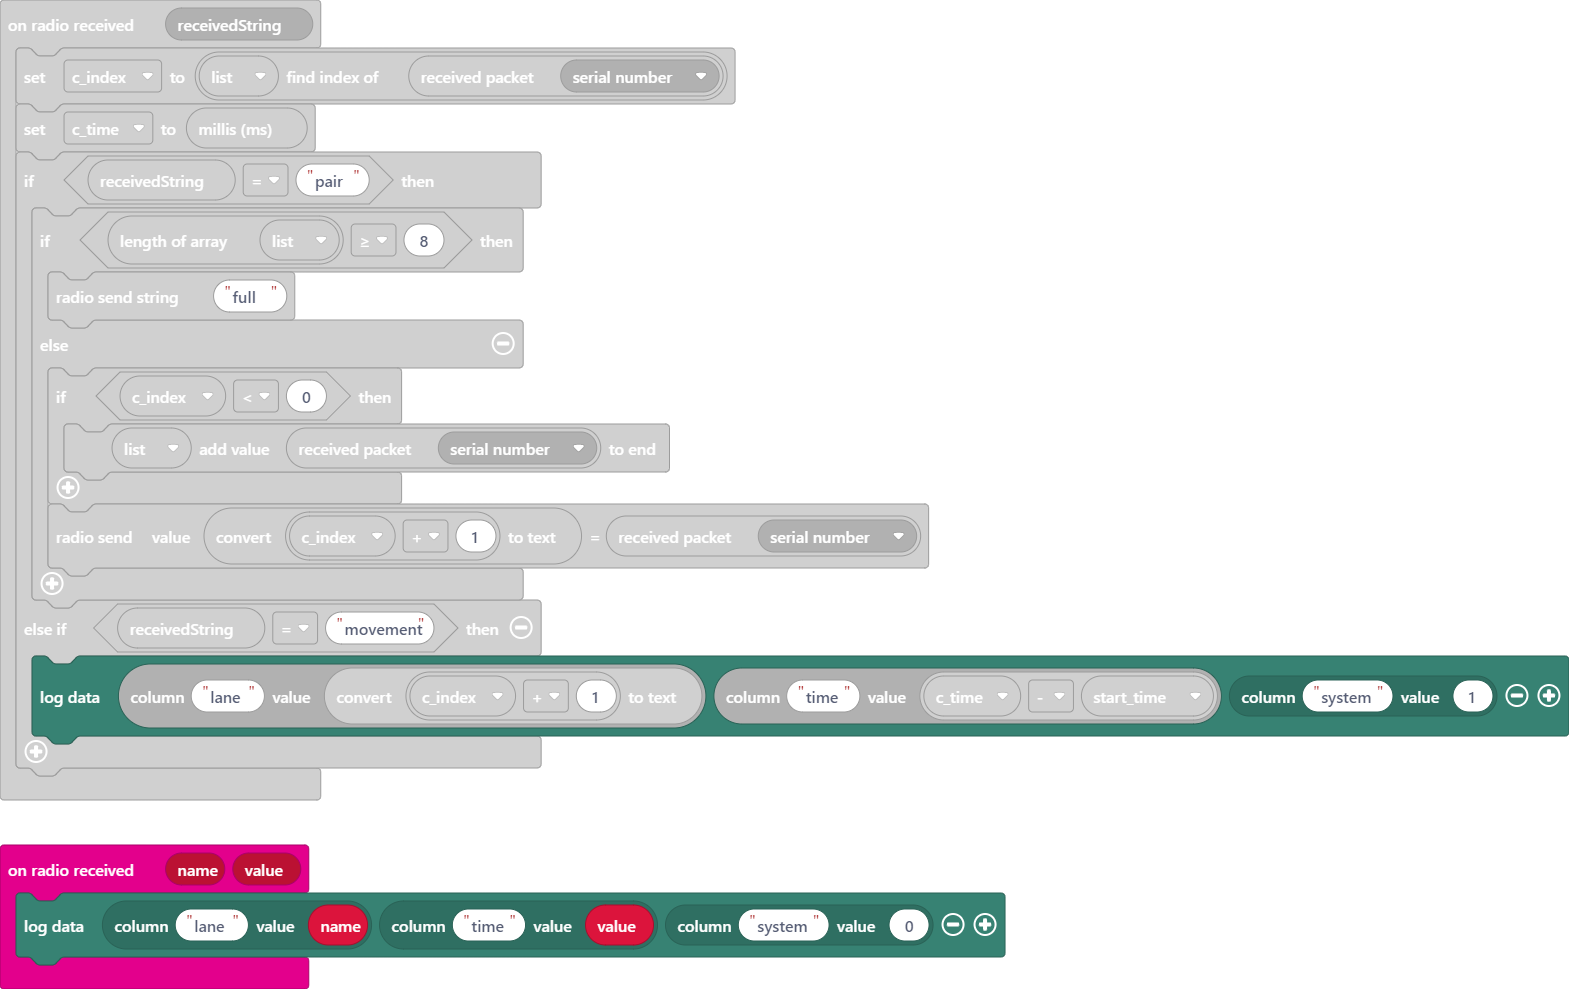
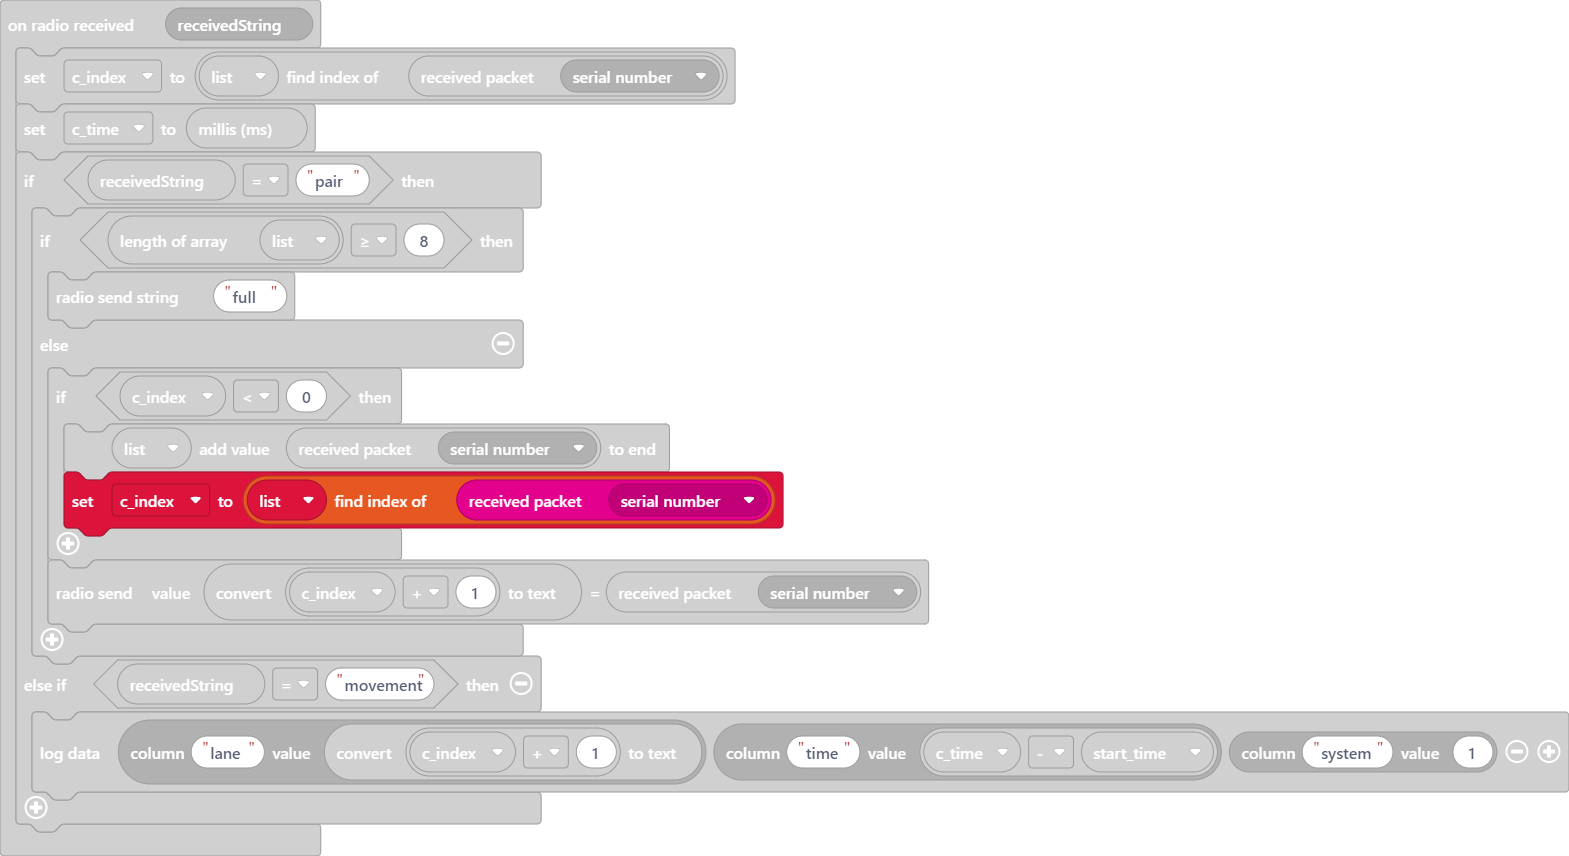
Update main.blocks, main.ts

diff --git a/main.ts b/main.ts
@@ -14,6 +14,7 @@ radio.onReceivedString(function (receivedString) {
         } else {
             if (c_index < 0) {
                 list.push(radio.receivedPacket(RadioPacketProperty.SerialNumber))
+                c_index = list.indexOf(radio.receivedPacket(RadioPacketProperty.SerialNumber))
             }
             radio.sendValue(convertToText(c_index + 1), radio.receivedPacket(RadioPacketProperty.SerialNumber))
         }
